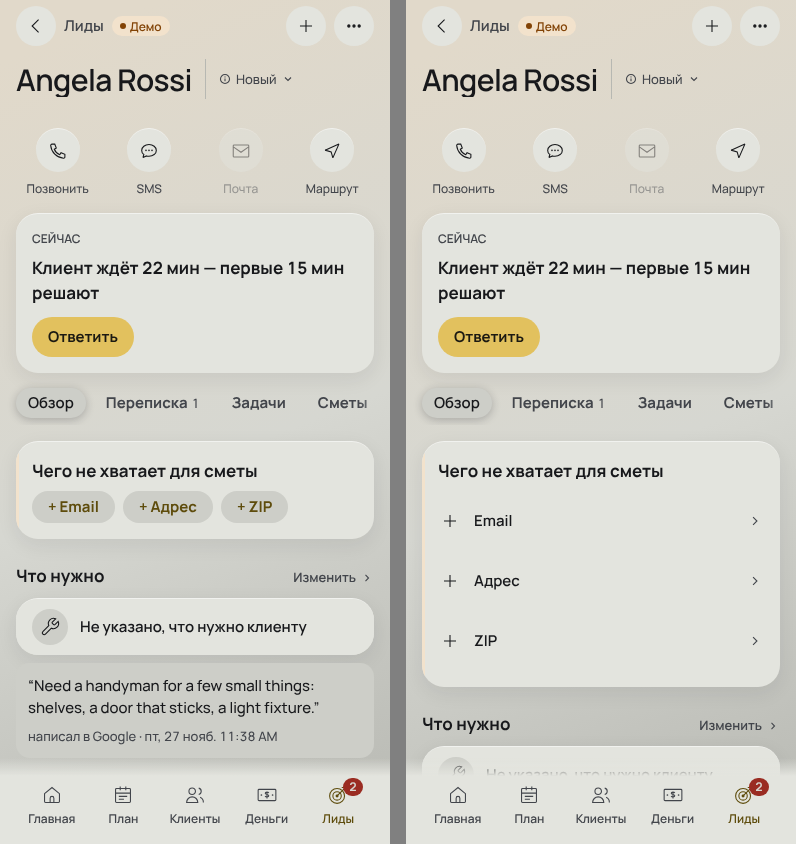
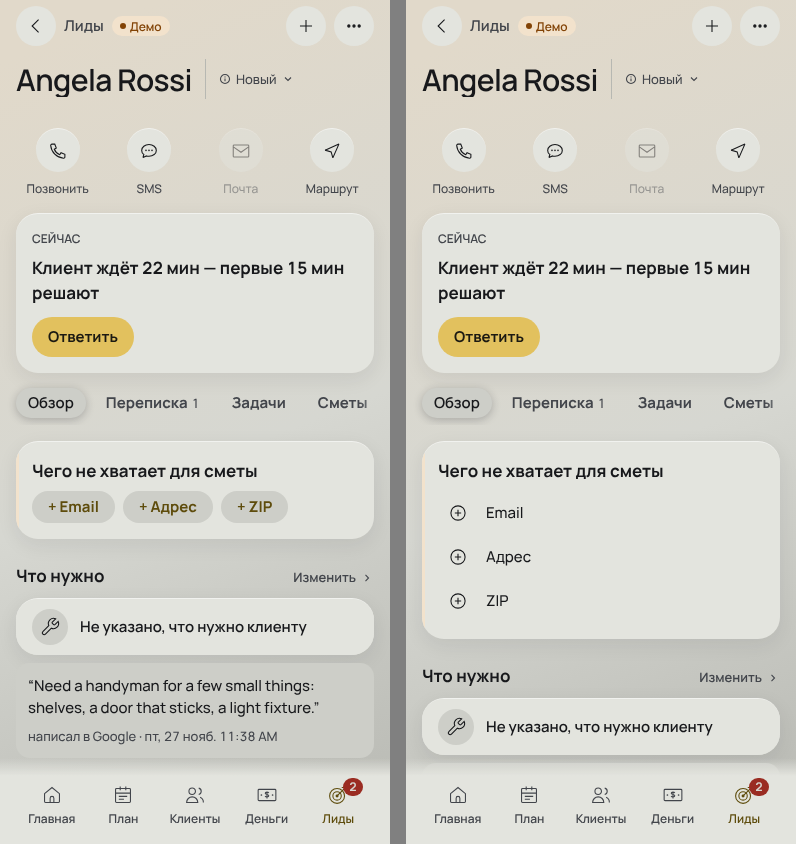
#3065: design + crm review — PO «Отметить получение» main when sent and unchanged, «Закрыть лид» red and last, «⊕» rows for what's missing, «Связано» under the sum, reminder rows show when, no «›» on direct actions
- purchase order: sent, no changes → one main «Отметить получение», «Отправить снова» in «⋯»; changes → «Отправить (версия N)» + «Сохранить», «Получено» in «⋯»
- lead «Статус»: «Закрыть лид» — ActionRow tone bad, last
- «Чего не хватает»: ActionRow «⊕ Email / Адрес / ZIP» (iOS Contacts add rows)
- «Что дальше?»: each reminder row shows its day and 9:00
- «Сообщить клиенту»: SMS / Письмо without «›» (they leave the app, as the iOS share sheet)
- receipt: «Связано» after the sum card
- checklist: no list icon on check items (camera only on photo items), subtitle on one line; hint «Нажмите пункт, чтобы изменить» (RU/EN/ES)
- photo sheet: «Повторить» first, then the row «Следующее ›», then «Удалить»

Claude-Session: https://claude.ai/code/session_015CqH67r2udAd6JM1sFa6VX

Changed region(s): [[0.5126, 0.5853, 0.995, 0.9242]]

diff --git a/apps/mobile/src/features/lead/LeadSheets.tsx b/apps/mobile/src/features/lead/LeadSheets.tsx
@@ -12,6 +12,7 @@ import { useStore } from "@/data/store";
 import { LEAD_FUNNEL, LEAD_INTERESTS, type CallOutcome, type Lead, type LeadInterest } from "@/data/types";
 import { useI18n, type DictKey } from "@/i18n";
 import { Labeled } from "@/features/fields";
+import { ActionRow } from "@/ui/multiValueField";
 import { isClosedLead, isOpenLead, isSnoozed, leadStatusView, missingForEstimate, type MissingItem } from "@/features/leads";
 import { leadSettingsOf } from "@/features/leadSettings";
 import { bookStart, dayAtHour, snoozeUntil, SNOOZE_MONTHS, BOOK_DAYS } from "@/features/lead/bookRules";
@@ -65,7 +66,7 @@ export function NextStepSheet({
   l, visible, onClose, onBook, onEstimate, onCloseLead, office,
 }: { l: Lead; visible: boolean; onClose: () => void; onBook: () => void; onEstimate: () => void; onCloseLead: () => void; office: boolean }) {
   const store = useStore();
-  const { t } = useI18n();
+  const { t, day, time } = useI18n();
   const toast = useToast();
   const q = useQ();
   const remindIn = (days: number) => {
@@ -87,7 +88,7 @@ export function NextStepSheet({
         <View testID="lead-next-remind">
           {[1, 3, 7].map((n) => (
             <View key={n} testID={`lead-next-remind-${n}`}>
-              <ListRow title={t("lead.next.inDays", { n })} left={<Icon name="clock" />} chevron={false} onPress={() => remindIn(n)} />
+              <ListRow title={t("lead.next.inDays", { n })} left={<Icon name="clock" />} right={<T v="caption" tone="mut">{`${day(dayAtHour(n, 9))} · ${time(dayAtHour(n, 9))}`}</T>} chevron={false} onPress={() => remindIn(n)} />
             </View>
           ))}
         </View>
@@ -175,7 +176,8 @@ export function StatusSheet({
           ) : (
             <ListRow title={t("lead.snooze.title")} left={<Icon name="clock" />} onPress={() => { onClose(); onSnooze(); }} />
           )}
-          <ListRow title={t("lead.closeTitle")} left={<Icon name="close" />} onPress={() => { onClose(); onCloseLead(); }} />
+          {/* the dangerous one — last, a red word (DS §7.5), as iOS Contacts' red row */}
+          <ActionRow testID="lead-status-close" label={t("lead.closeTitle")} tone="bad" onPress={() => { onClose(); onCloseLead(); }} />
         </View>
       ) : isClosedLead(l) ? (
         <Button label={t("lead.reopen")} icon="refresh" full onPress={() => { toast.show(q(t("lead.reopened", { name: l.name })), store.reopenLead(l.id)); onClose(); }} />
@@ -237,11 +239,11 @@ export function MissingBlock({ l, onAdd }: { l: Lead; onAdd: (what: "contact" | 
   return (
     <Card status="warn">
       <T v="heading">{t("lead.missing.title")}</T>
-      {/* DS §7.5: each missing item is a row «＋ …» that opens its sheet, not a row of buttons */}
+      {/* DS §7.5, §9 А14а: each missing item is an action row «⊕ …» (iOS Contacts «add phone») that opens its sheet, not a row of buttons */}
       <View testID="lead-missing">
         {missing.map((m) => (
           <View key={m} testID={`lead-missing-${m}`}>
-            <ListRow title={t(MISSING_KEYS[m])} left={<Icon name="plus" />} onPress={() => onAdd(sheetOf(m))} />
+            <ActionRow label={t(MISSING_KEYS[m])} icon="plusCircle" onPress={() => onAdd(sheetOf(m))} />
           </View>
         ))}
       </View>

diff --git a/apps/mobile/src/app/purchase-order/[id].tsx b/apps/mobile/src/app/purchase-order/[id].tsx
@@ -125,11 +125,14 @@ export default function PurchaseOrderScreen() {
   };
   const canRecv = canReceive(role) && ["sent", "partially_received", "received"].includes(found.status);
   const startReceive = () => setReceiving(Object.fromEntries(found.lines.map((l) => [l.id, l.receivedQty === "0" ? "" : l.receivedQty])));
-  // DS §7.5 (#3065): at most one main + one second button under the order; the rest — «⋯» in the header. Editing: «Отправить» +
-  // «Сохранить»; «Получено» (a sent order) and «Отменить заказ» — in «⋯». Not editing: «Получено» is the one main.
+  // DS §7.5 (#3065): at most one main + one second button under the order; the rest — «⋯» in the header.
   const canCancel = office && ["draft", "sent", "partially_received"].includes(found.status);
-  const items: MenuItem<"receive" | "cancel">[] = [
-    ...(edit && canRecv ? [{ key: "receive" as const, label: t("po.receive"), icon: "check" as const, testID: "po-receive" }] : []),
+  // design + crm review (#3065): a sent order without changes — the next step «Отметить получение» is the one main; «Отправить снова»
+  // (the same version again) goes to «⋯». With changes — «Отправить (версия N)» + «Сохранить», «Получено» in «⋯».
+  const receiveMain = canRecv && !dirty;
+  const items: MenuItem<"receive" | "send" | "cancel">[] = [
+    ...(edit && canRecv && !receiveMain ? [{ key: "receive" as const, label: t("po.receive"), icon: "check" as const, testID: "po-receive" }] : []),
+    ...(edit && receiveMain && o.supplierId && o.lines.length && !dateBad ? [{ key: "send" as const, label: t("po.sendAgain", { n: found.revision + 1 }), icon: "send" as const, testID: "po-send-again" }] : []),
     ...(canCancel ? [{ key: "cancel" as const, label: t("po.cancel"), icon: "close" as const, destructive: true, ownAsk: true, testID: "po-cancel" }] : []),
   ];
   const more = items.length ? (
@@ -218,7 +221,7 @@ export default function PurchaseOrderScreen() {
         {total !== undefined ? <T v="heading" tabular>{t("po.total", { amount: money(total) })}</T> : null}
       </Card>
 
-      {edit ? (
+      {edit && !receiveMain ? (
         <ButtonPair
           ids={{ main: "po-send", second: "po-save" }}
           main={{ label: found.status === "sent" ? t("po.sendAgain", { n: found.revision + 1 }) : t("po.send"), icon: "send", disabled: !o.supplierId || !o.lines.length || dateBad, onPress: send }}
@@ -239,6 +242,7 @@ export default function PurchaseOrderScreen() {
         onSelect={(k) => {
           setMoreAt(null);
           if (k === "receive") startReceive();
+          else if (k === "send") send();
           else setAskCancel(true);
         }}
         onClose={() => setMoreAt(null)}

diff --git a/apps/mobile/src/features/VisitForm.tsx b/apps/mobile/src/features/VisitForm.tsx
@@ -331,8 +331,8 @@ export function NotifySheet({ visitId, onClose }: { visitId: ID | null; onClose:
       <T v="body">{text}</T>
       {/* DS §7.5 (#3065): the channel is a row of one choice (as the iOS share sheet), not a column of buttons; «Не сейчас» — the one quiet button */}
       <View testID="vf-notify-channels">
-        {sms ? <ListRow title={t("vf.notify.sms")} left={<Icon name="sms" />} onPress={() => { Linking.openURL(sms).catch(() => {}); done(); }} /> : null}
-        {mail ? <ListRow title={t("vf.notify.email")} left={<Icon name="mail" />} onPress={() => { Linking.openURL(mail).catch(() => {}); done(); }} /> : null}
+        {sms ? <ListRow title={t("vf.notify.sms")} left={<Icon name="sms" />} chevron={false} onPress={() => { Linking.openURL(sms).catch(() => {}); done(); }} /> : null}
+        {mail ? <ListRow title={t("vf.notify.email")} left={<Icon name="mail" />} chevron={false} onPress={() => { Linking.openURL(mail).catch(() => {}); done(); }} /> : null}
         <ListRow title={t("vf.notify.copy")} left={<Icon name="copy" />} chevron={false} onPress={() => { Clipboard.setStringAsync(text).catch(() => {}); toast.show(t("vf.notify.copied")); done(); }} />
       </View>
       <Button label={t("vf.notify.later")} variant="ghost" full onPress={onClose} />
@@ -370,8 +370,8 @@ export function CancelNotifySheet({ visitId, onClose }: { visitId: ID | null; on
       {!sms && !mail ? <T v="caption" tone="mut">{t("visitP2.notify.noContact")}</T> : null}
       {/* DS §7.5 (#3065): the channel — rows of one choice, not a column of buttons */}
       <View testID="vc-notify-channels">
-        {sms ? <ListRow title={t("vf.notify.sms")} left={<Icon name="sms" />} onPress={() => open(sms, "sms")} /> : null}
-        {mail ? <ListRow title={t("vf.notify.email")} left={<Icon name="mail" />} onPress={() => open(mail, "email")} /> : null}
+        {sms ? <ListRow title={t("vf.notify.sms")} left={<Icon name="sms" />} chevron={false} onPress={() => open(sms, "sms")} /> : null}
+        {mail ? <ListRow title={t("vf.notify.email")} left={<Icon name="mail" />} chevron={false} onPress={() => open(mail, "email")} /> : null}
         <ListRow title={t("vf.notify.copy")} left={<Icon name="copy" />} chevron={false} onPress={() => { Clipboard.setStringAsync(n.text).catch(() => {}); toast.show(t("vf.notify.copied")); onClose(); }} />
       </View>
       <Button label={t("vf.notify.later")} variant="ghost" full onPress={onClose} />

diff --git a/apps/mobile/src/features/PhotoStrip.tsx b/apps/mobile/src/features/PhotoStrip.tsx
@@ -135,12 +135,6 @@ export function PhotoStrip({ photos, onAdd, onAddPreparing, onRemove, onRetry, o
             {!open.uri && openFailed.failed !== "gone" ? ` ${t("photoUp.otherPhone")}` : ""}
           </StatusNote>
         ) : null}
-        {/* DS §7.5 (#3065): going to the next failed photo is a row «›», not a third button; the sheet keeps one main + one second */}
-        {nextFailed ? (
-          <View testID="photo-upload-next">
-            <ListRow title={t("photoUp.next", { i: failedAt + 1, n: failed })} left={<Icon name="image" />} onPress={() => setOpen(nextFailed)} />
-          </View>
-        ) : null}
         {/* the sheet's one main step (one filled accent, #2350): «Повторить», or «Подготовить снова» for «не открывается» — never both */}
         {open && ((onRetry && canRetry({ ...open, upload: openFailed })) || (openFailed?.failed === "unreadable" && open.uri)) ? (
           <Button
@@ -154,6 +148,12 @@ export function PhotoStrip({ photos, onAdd, onAddPreparing, onRemove, onRetry, o
               setOpen(null);
             }}
           />
+        ) : null}
+        {/* DS §7.5 (#3065): going to the next failed photo is a row «›» under the main step, not a third button; the sheet keeps one main + one second */}
+        {nextFailed ? (
+          <View testID="photo-upload-next">
+            <ListRow title={t("photoUp.next", { i: failedAt + 1, n: failed })} left={<Icon name="image" />} onPress={() => setOpen(nextFailed)} />
+          </View>
         ) : null}
         {onRemove && open ? (
           <Button

diff --git a/apps/mobile/src/app/receipt/[id].tsx b/apps/mobile/src/app/receipt/[id].tsx
@@ -114,9 +114,8 @@ export default function ReceiptScreen() {
       right={more}
       footer={barMain ? <ActionBar testID="rcpt-actionbar" main={barMain} second={secondBtn(true) ?? undefined} /> : undefined}
     >
-      {/* LAYOUT-RULES §3 «Объект», compact (#2350): the invoice, the job and the client — chips in one row (DS §12.3 п.6; the client
+      {/* LAYOUT-RULES §3 «Объект», compact (#2350): the invoice, the job and the client — «Связано» rows under the sum (#3065; the client
           is not repeated under the title, the invoice not repeated in the card); the sum large with its status, how and when in one line */}
-      <RelatedBlock of={{ type: "receipt", id: p.id }} />
       <Card status="ok">
         <RowView style={{ justifyContent: "space-between", alignItems: "center" }}>
           <T v="display" tabular>
@@ -168,6 +167,8 @@ export default function ReceiptScreen() {
           </T>
         ) : null}
       </Card>
+      {/* #3065 (design + crm review): the sum and its status first, then «Связано» — as Wallet and Jobber put a payment */}
+      <RelatedBlock of={{ type: "receipt", id: p.id }} />
       {/* from 820 the same buttons right after the receipt (the same place on every width, #1474) */}
       {wide && (mainBtn(false) || secondBtn(false)) ? (
         <RowView style={{ flexWrap: "wrap" }}>

diff --git a/apps/mobile/src/features/VisitChecklist.tsx b/apps/mobile/src/features/VisitChecklist.tsx
@@ -248,8 +248,7 @@ export function ChecklistEditor({ v, title }: { v: Visit; title?: string }) {
               testID={`chk-edit-${i}-open`}
               title={item.label}
               subtitle={[itemRequired(item) ? t("chk3.requiredShort") : t("chk3.optional"), item.templateName ? t("chk3.from", { name: item.templateName }) : null].filter(Boolean).join(" · ")}
-              lead={{ icon: itemKind(item) === "photo" ? "camera" : "checklist" }}
-              wrap
+              lead={itemKind(item) === "photo" ? { icon: "camera" } : undefined}
               onPress={() => setEditing(item)}
               actions={[
                 ...(i > 0 ? [{ icon: "chevronUp" as const, a11y: `${t("chk3.up")} · ${item.label}`, testID: `chk-edit-${i}-up`, onPress: () => say(t("chk3.moved"), store.moveVisitItem(v.id, item.id, -1)) }] : []),

diff --git a/apps/mobile/src/i18n/ru.ts b/apps/mobile/src/i18n/ru.ts
@@ -4550,7 +4550,7 @@ export const ru = {
   "chk2b.reviewed": "Просмотрено",
   "chk2b.reviewedToast": "Отмечено: просмотрено",
   // step 14 CH3 (чек-листы): the office edits a visit's checklist
-  "chk3.hint": "Правка — до выезда мастера. Снять «Обязательный» может только директор.",
+  "chk3.hint": "Правка — до выезда мастера. Нажмите пункт, чтобы изменить. Снять «Обязательный» может только директор.",
   "chk3.empty": "Пунктов пока нет",
   "chk3.edit": "Изменить",
   "chk3.editTitle": "Пункт чек-листа",

diff --git a/apps/mobile/src/i18n/es.ts b/apps/mobile/src/i18n/es.ts
@@ -4550,7 +4550,7 @@ export const es: Dict = {
   "chk2b.reviewed": "Revisado",
   "chk2b.reviewedToast": "Marcado como revisado",
   // step 14 CH3 (чек-листы): the office edits a visit's checklist
-  "chk3.hint": "Se edita antes de la visita del técnico. Solo el director quita «Obligatorio».",
+  "chk3.hint": "Se edita antes de la visita del técnico. Toque un punto para editarlo. Solo el director quita «Obligatorio».",
   "chk3.empty": "Aún no hay puntos",
   "chk3.edit": "Editar",
   "chk3.editTitle": "Punto de la lista",

diff --git a/apps/mobile/src/i18n/en.ts b/apps/mobile/src/i18n/en.ts
@@ -4550,7 +4550,7 @@ export const en: Dict = {
   "chk2b.reviewed": "Reviewed",
   "chk2b.reviewedToast": "Marked as reviewed",
   // step 14 CH3 (чек-листы): the office edits a visit's checklist
-  "chk3.hint": "Edit before the tech's visit. Only the director can turn «Required» off.",
+  "chk3.hint": "Edit before the tech's visit. Tap an item to edit it. Only the director can turn «Required» off.",
   "chk3.empty": "No items yet",
   "chk3.edit": "Edit",
   "chk3.editTitle": "Checklist item",
